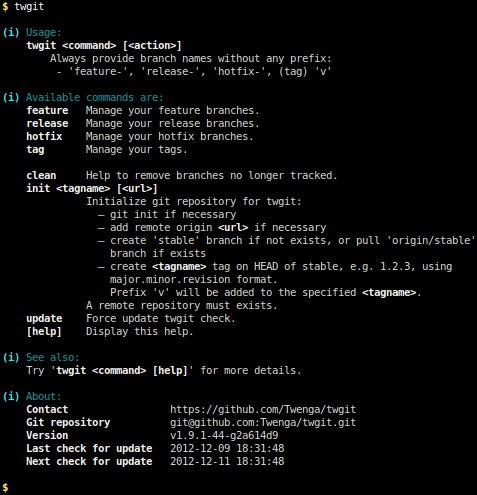
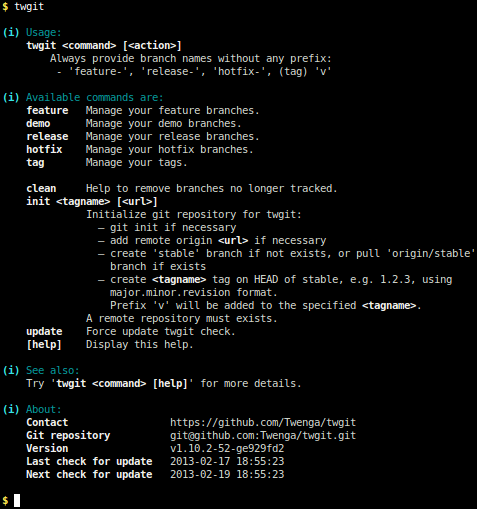
Update CHANGELOG

diff --git a/CHANGELOG.md b/CHANGELOG.md
@@ -1,6 +1,28 @@
 ChangeLog
 =========
 
+## Version 1.11.0 (2013-02-??)
+
+Features:
+
+  - #92 Add parameter in config file to control tag list size
+  - #88 Allow config files per repository
+  - #71 Add demo/test branches for marketing teams or other needs
+
+UI:
+
+  - #90 Add source tag on branch description
+  - #89 Add commit description of hotfixes on `twgit tag list`
+  - #84 Allow to parameter the default rendering of `twgit feature list`
+
+Core enhancements:
+
+  - #74: Update of twgit cancels the first called functionality
+
+Unit tests:
+
+  - estimated code coverage: 34% (618 of 1797 lines)
+
 ## Version 1.10.2 (2013-01-07)
 
 Fixes:
@@ -40,7 +62,7 @@ Core enhancements:
 Unit tests:
 
   - #79: Unit tests are now executable on OS X
-  - estimated code coverage: 34%
+  - estimated code coverage: 34% (575 of 1698 lines)
   
 ## Version 1.9.1 (2012-11-12)
 
@@ -67,7 +89,7 @@ Fixes:
  
 Unit tests:
 
-  - estimated code coverage: 29%
+  - estimated code coverage: 29% (471 of 1629 lines)
 
 ## Version 1.8.0 (2012-07-03)
 
@@ -97,7 +119,7 @@ Core enhancements:
 
 Unit tests:
 
-  - estimated code coverage: 25%
+  - estimated code coverage: 25% (401 of 1610 lines)
 
 Quality code:
 
@@ -154,7 +176,7 @@ Core enhancements:
 Unit tests:
 
   - #34: Add unit tests on `get_features()` and other similar functions
-  - estimated code coverage: 22%
+  - estimated code coverage: 22% (327 of 1465 lines)
 
 ## Version 1.5.1 (2012-03-05)
 
@@ -187,7 +209,7 @@ Core enhancements:
 Unit tests:
 
   - #25: Compute estimated Bash code coverage in Travis-ci
-  - Estimated code coverage: 16%
+  - Estimated code coverage: 16% (231 of 1400 lines)
 
 Quality code:
 

diff --git a/README.md b/README.md
@@ -54,6 +54,8 @@ More [Installation instructions](https://github.com/Twenga/twgit/wiki/Twgit#wiki
 
 ![twgit release](https://github.com/Twenga/twgit/raw/stable/doc/screenshot-twgit-release.png)
 
+![twgit demo](https://github.com/Twenga/twgit/raw/stable/doc/screenshot-twgit-demo.png)
+
 ![twgit tag](https://github.com/Twenga/twgit/raw/stable/doc/screenshot-twgit-tag.png)
 
 ## Copyrights & licensing
